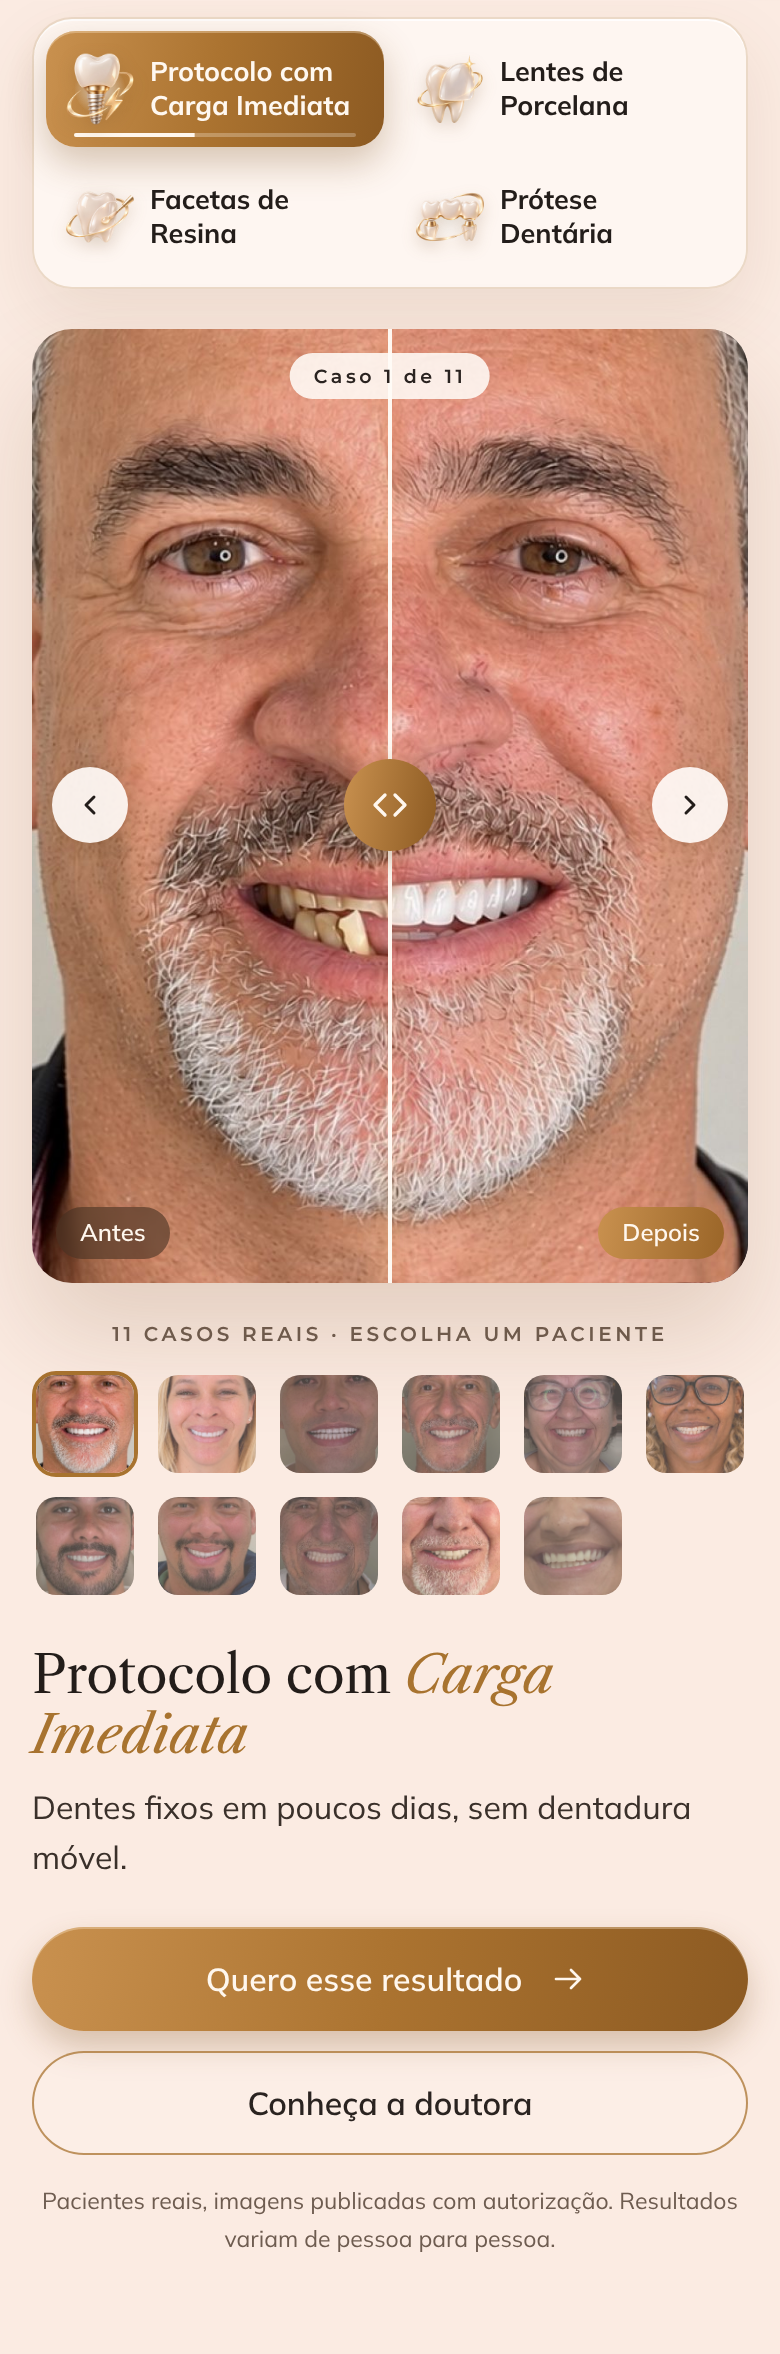
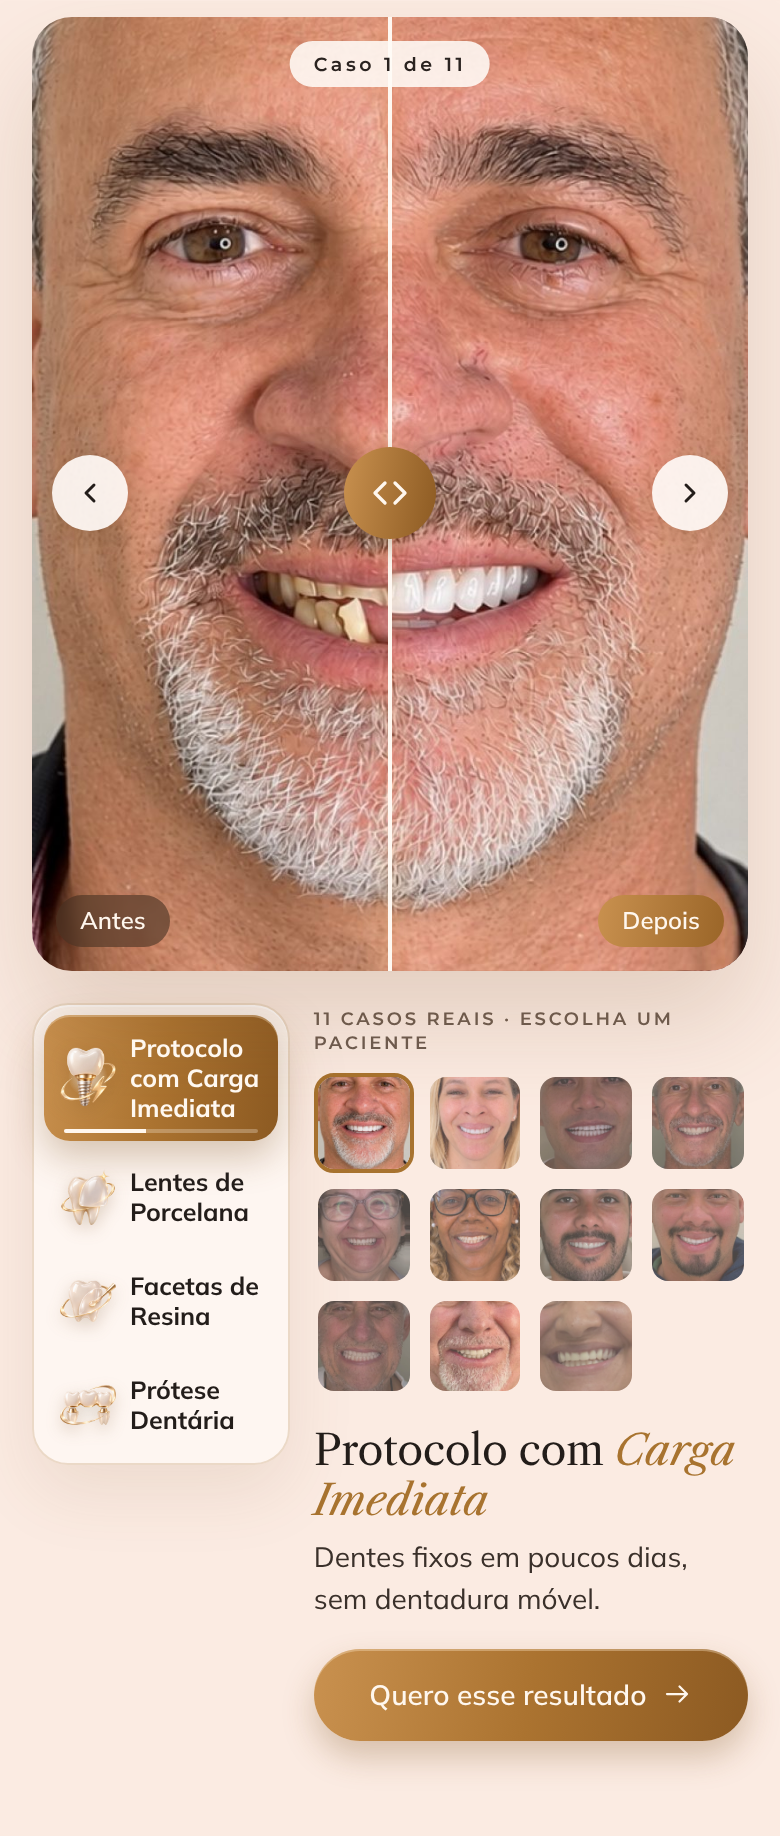
Mobile treatments: photo on top, stacked treatment list left, cases and text right
Claude-Session: https://claude.ai/code/session_011M2KAfbiXzYiuKdHpfC1dX

diff --git a/site/index.html b/site/index.html
@@ -584,6 +584,28 @@
     .panel .info .kick,.panel .info > p:not(.short):not(.thumbs-label):not(.note-cfo),.panel .info ul{display:none}
     .panel .act-alt,.panel .info .note-cfo{display:none}
   }
+
+  /* ---------- Tratamentos no celular: foto em cima, abas à esquerda, casos e texto à direita ---------- */
+  @media (max-width:760px){
+    .band-mid .mid{display:grid;grid-template-columns:minmax(0,36%) minmax(0,1fr);column-gap:12px;align-items:start}
+    .band-mid #panels,.band-mid .panel:not([hidden]),.band-mid .panel .info{display:contents}
+    .band-mid .panel .compare{grid-column:1 / -1;grid-row:1;margin:0 0 16px;max-height:66vh}
+    .band-mid .tabs{grid-column:1;grid-row:2 / span 6;grid-template-columns:1fr;gap:4px;padding:5px;border-radius:18px;align-self:start}
+    .band-mid .tab{min-height:0;padding:9px 8px;gap:7px;border-radius:13px}
+    .band-mid .tabs .thumb-ind{border-radius:13px}
+    .band-mid .tab .t-ico{width:28px;height:28px}
+    .band-mid .tab .t-name{font-size:12.5px;line-height:1.2}
+    .band-mid .tabs .thumb-ind .prog{left:10px;right:10px;bottom:4px}
+    .band-mid .panel .info .thumbs-label{grid-column:2;grid-row:2;margin:2px 0 0;font-size:9px;letter-spacing:1.4px;line-height:1.4}
+    .band-mid .panel .thumbs{grid-column:2;grid-row:3;grid-template-columns:repeat(4,minmax(0,1fr));gap:6px;margin-top:8px}
+    .band-mid .thumb{border-radius:10px}
+    .band-mid .panel .info h3{grid-column:2;grid-row:4;font-size:21px;line-height:1.15;margin-top:16px}
+    .band-mid .panel .info .short{grid-column:2;grid-row:5;font-size:14px;line-height:1.5;margin-top:6px}
+    .band-mid .panel .actions{grid-column:2;grid-row:6;margin-top:14px}
+    .band-mid .panel .actions .btn{height:46px;font-size:14px;padding:0 14px;gap:8px}
+    .band-mid .panel .actions .btn svg{width:15px;height:15px}
+    .band-mid .soon{font-size:10px}
+  }
 </style>
 </head>
 <body>
